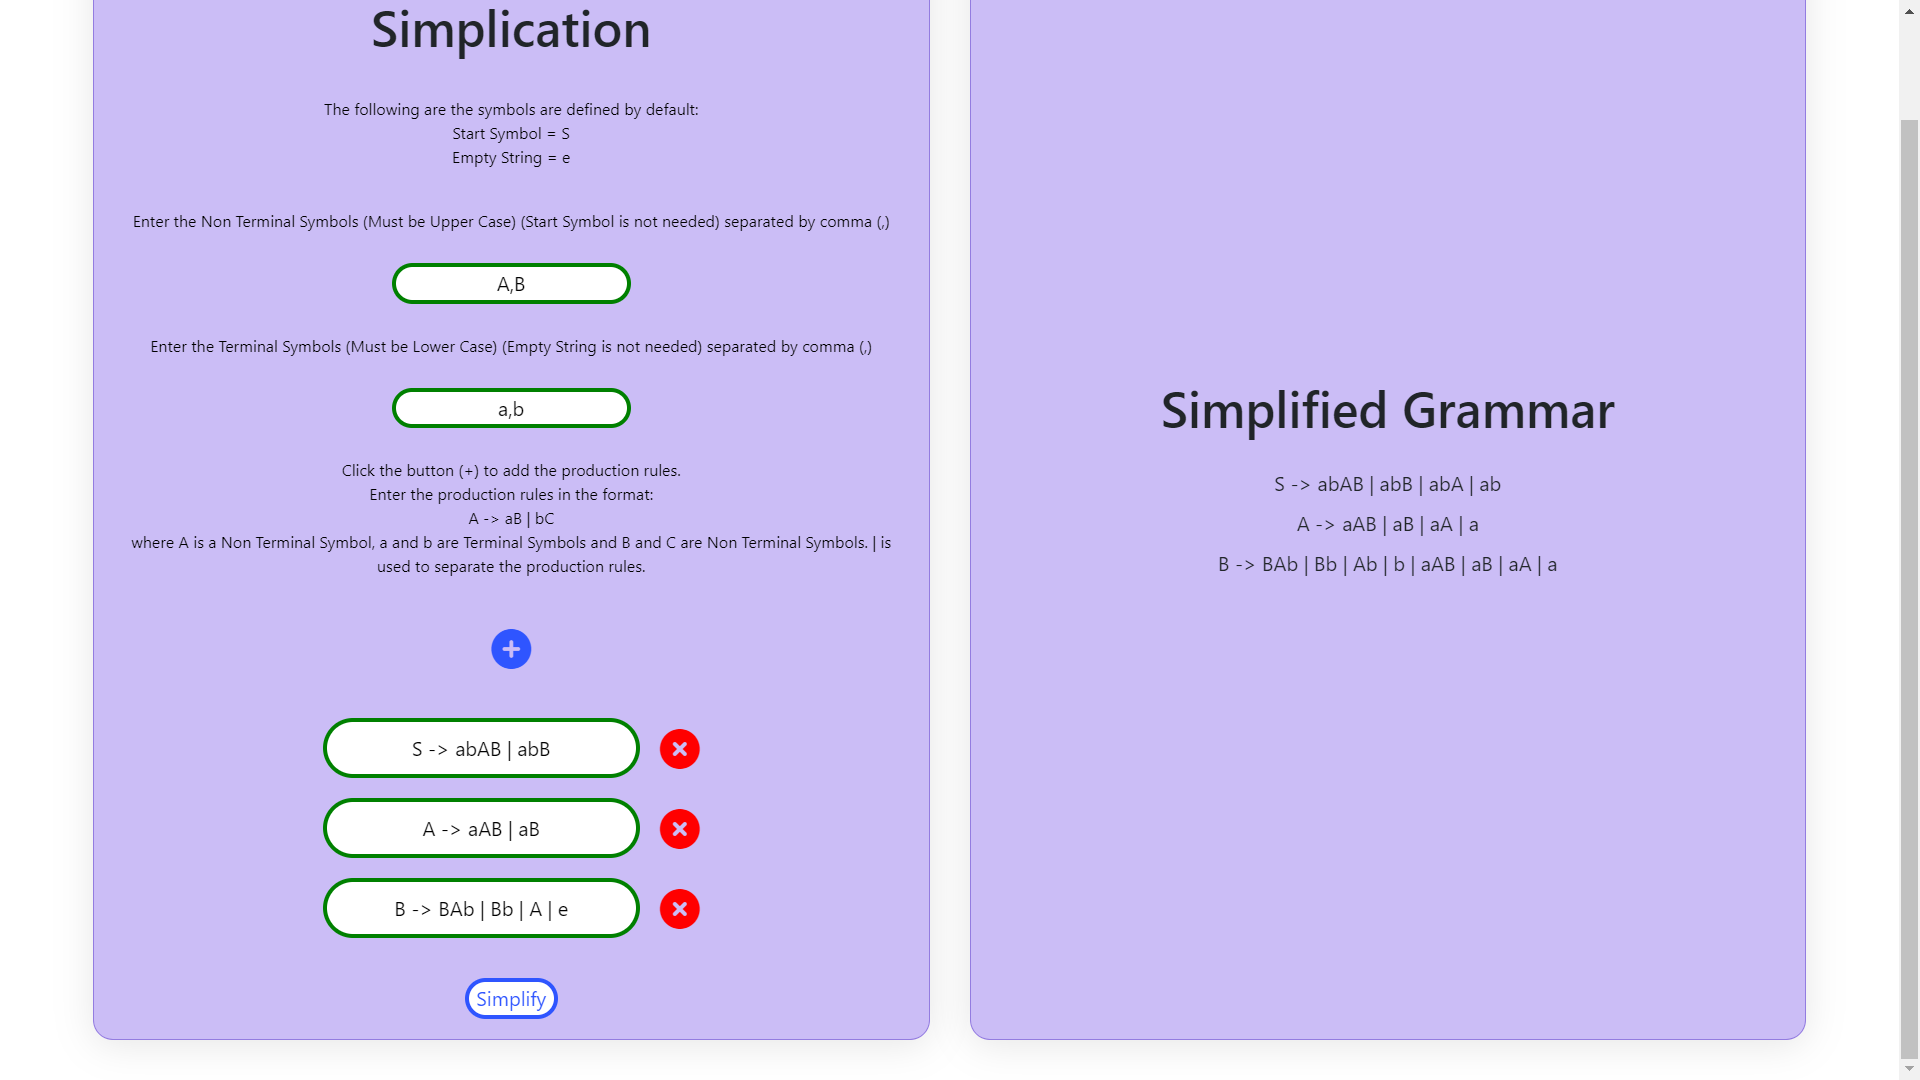
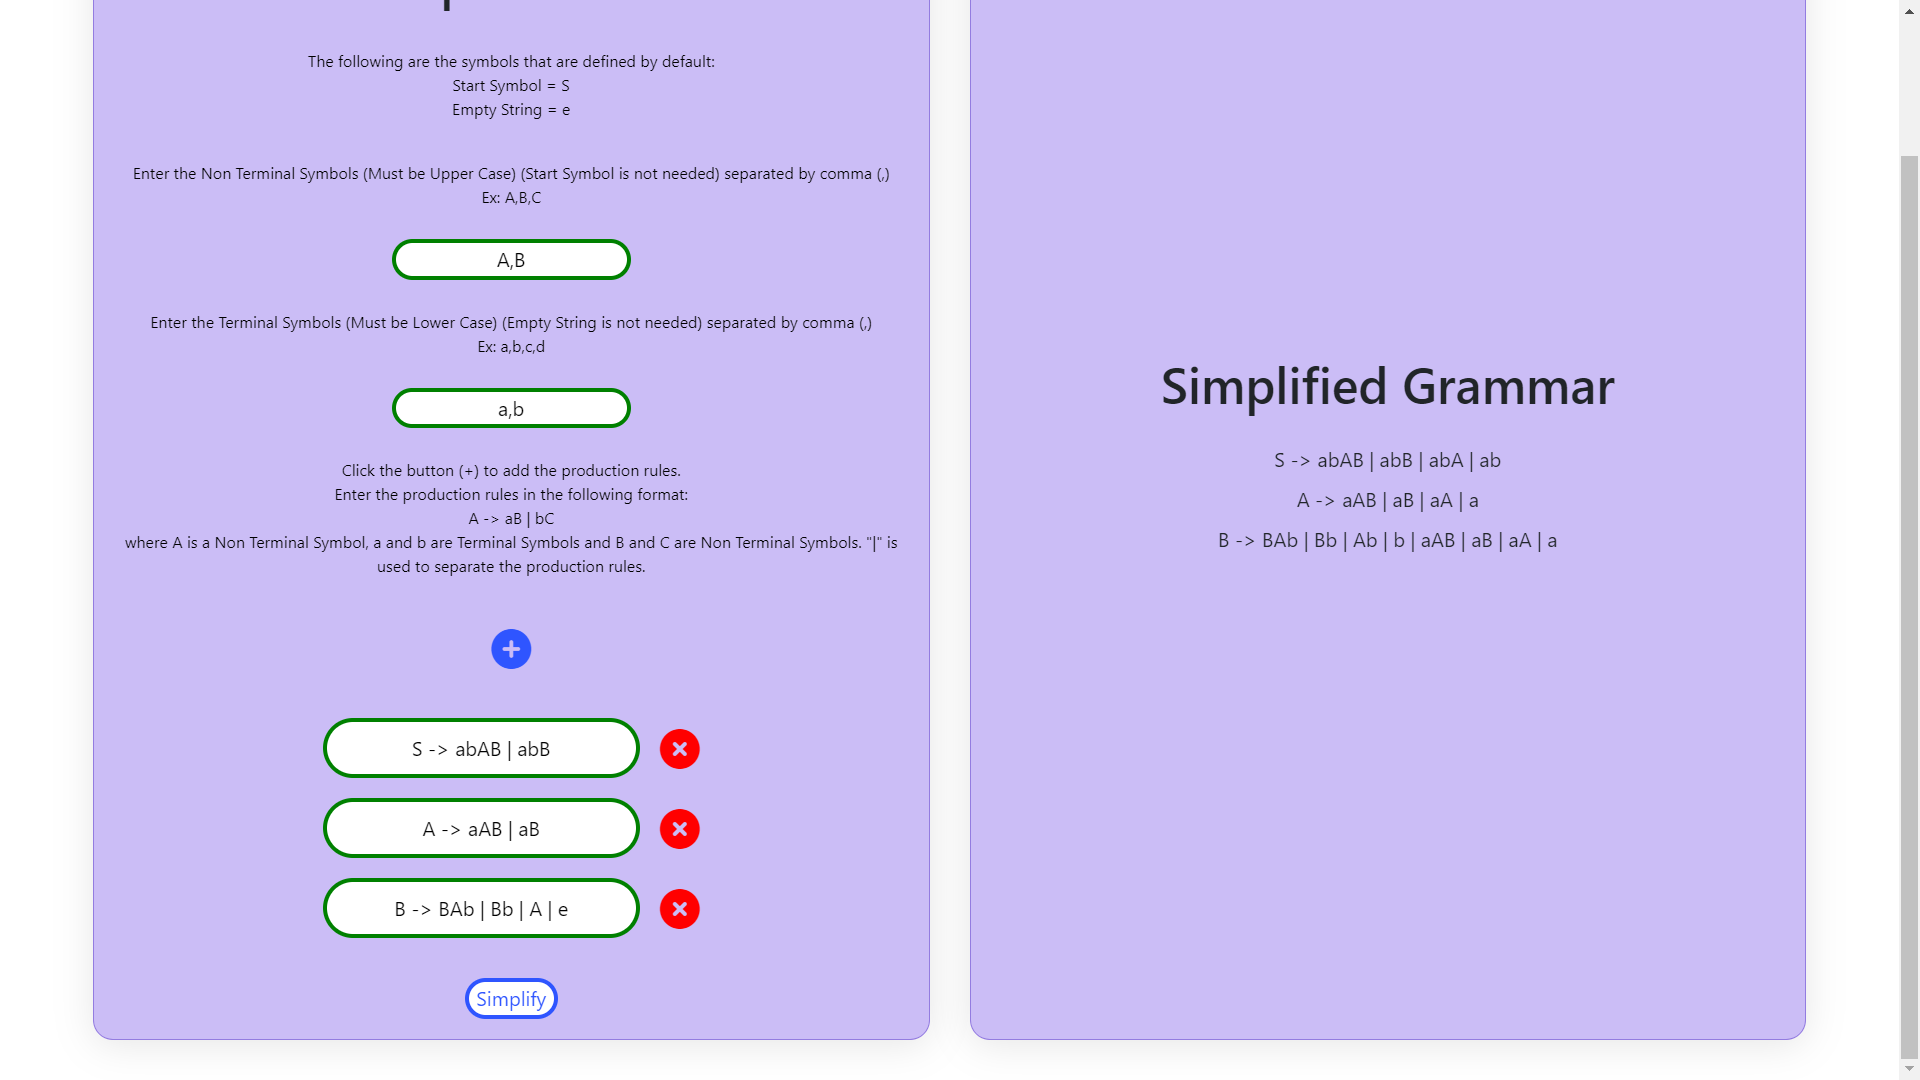
spelling and grammar fixes (lol) and added examples

diff --git a/index.html b/index.html
@@ -12,9 +12,9 @@
     <body>
         <main>
             <form class="user-input-container box">
-                <h1>Context Free Grammar Simplication</h1>
+                <h1>Context Free Grammar Simplification</h1>
                 <div class="notice">
-                    The following are the symbols are defined by default:
+                    The following are the symbols that are defined by default:
                     <div class="symbols">
                         Start Symbol = S
                         <br>
@@ -23,12 +23,16 @@
                 </div>
                 <div class="notice">
                     Enter the Non Terminal Symbols (Must be Upper Case) (Start Symbol is not needed) separated by comma (,) 
+                    <br>
+                    Ex: A,B,C
                 </div>
                 <div class="input-container">
                     <input type="text" placeholder="Non-Terminal Symbols" name="non-terminals" id="non-terminals" required>  
                 </div>
                 <div class="notice">
-                    Enter the Terminal Symbols (Must be Lower Case) (Empty String is not needed) separated by comma (,) 
+                    Enter the Terminal Symbols (Must be Lower Case) (Empty String is not needed) separated by comma (,)
+                    <br>
+                    Ex: a,b,c,d 
                 </div>  
                 <div class="input-container">
                     <input type="text" placeholder="Terminal Symbols" name="terminals" id="terminals" required>
@@ -36,11 +40,11 @@
                 <div class="notice">
                     Click the button (+) to add the production rules.
                     <br>
-                    Enter the production rules in the format:
+                    Enter the production rules in the following format:
                     <br>
                     A -> aB | bC
                     <br>
-                    where A is a Non Terminal Symbol, a and b are Terminal Symbols and B and C are Non Terminal Symbols. | is used to separate the production rules.
+                    where A is a Non Terminal Symbol, a and b are Terminal Symbols and B and C are Non Terminal Symbols. "|" is used to separate the production rules.
                 </div>
                 <div class="btn-container">
                     <button id="add-btn" class="icon-btn"><i class="fa-solid fa-circle-plus"></i></button>
